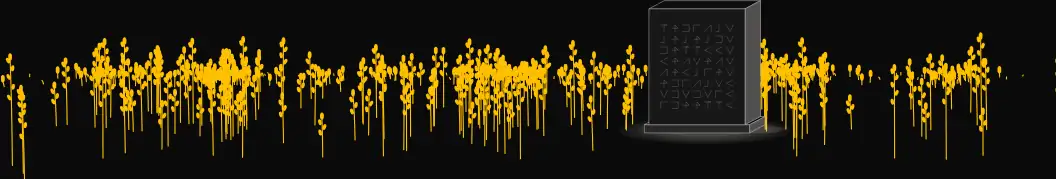
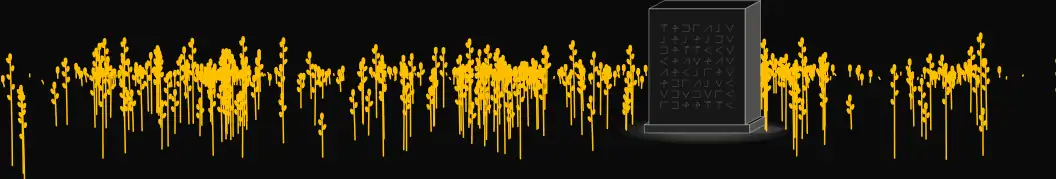
fix: Draw hero stalks no thinner than 1.5 device pixels so they keep 7:1.

diff --git a/src/lib/hero-field-scene.ts b/src/lib/hero-field-scene.ts
@@ -226,7 +226,9 @@ export const BUD_TIERS = [
 ] as const;
 
 export const STALK_WIDTH = { min: 0.55, bySize: 3.1 } as const;
-/** Share of its traced width a stalk is drawn at, never under `STALK_WIDTH.min`. */
+/** Device pixels: thinner, a stalk antialiases under 7:1 on a 1x screen (measured). */
+export const STALK_MIN_DEVICE_PX = 1.5;
+/** Share of its traced width a stalk is drawn at, never under either minimum. */
 export const STALK_WIDTH_SHARE = 0.5;
 /** Line width in CSS pixels of the outline around a filled bud. */
 export const FILL_OUTLINE = 1;

diff --git a/src/lib/hero-field.ts b/src/lib/hero-field.ts
@@ -37,6 +37,7 @@ import {
   REFERENCE_PROJECTION,
   REFERENCE_WIDTH,
   SPRING,
+  STALK_MIN_DEVICE_PX,
   STALK_WIDTH,
   STALK_WIDTH_SHARE,
   STEM_ALPHA,
@@ -222,7 +223,11 @@ const strokeStalk = (
 ): void => {
   ctx.strokeStyle = palette.stalk;
   ctx.globalAlpha = 1;
-  ctx.lineWidth = Math.max(STALK_WIDTH.min, ctx.lineWidth * STALK_WIDTH_SHARE);
+  ctx.lineWidth = Math.max(
+    STALK_WIDTH.min,
+    STALK_MIN_DEVICE_PX / ctx.getTransform().a,
+    ctx.lineWidth * STALK_WIDTH_SHARE,
+  );
   ctx.stroke();
 };
 

diff --git a/docs/STYLEGUIDE.md b/docs/STYLEGUIDE.md
@@ -341,7 +341,7 @@ The switch and what it scopes: [ARCHITECTURE.md](../ARCHITECTURE.md#light-mode).
   `cyan`, `light-red-text`), swapped in by `light-mode.css`.
 - The homepage hero has no frame and no ground of its own: it stands on the
   page ground, page text on it. Both modes draw every stalk at full strength
-  and half width, no thinner than 0.55px. Dark mode draws gold stalks and buds
+  and half width, no thinner than 0.55px or 1.5 device pixels (thinner antialiases under 7:1 on a 1x screen). Dark mode draws gold stalks and buds
   (11.99 on `#0b0b0b`); light mode draws `#131313` stalks
   (18.58 on white) and fills the buds with `hero-fill` (`block-cyan`) inside a
   `#131313` outline (9.36 on the fill).
